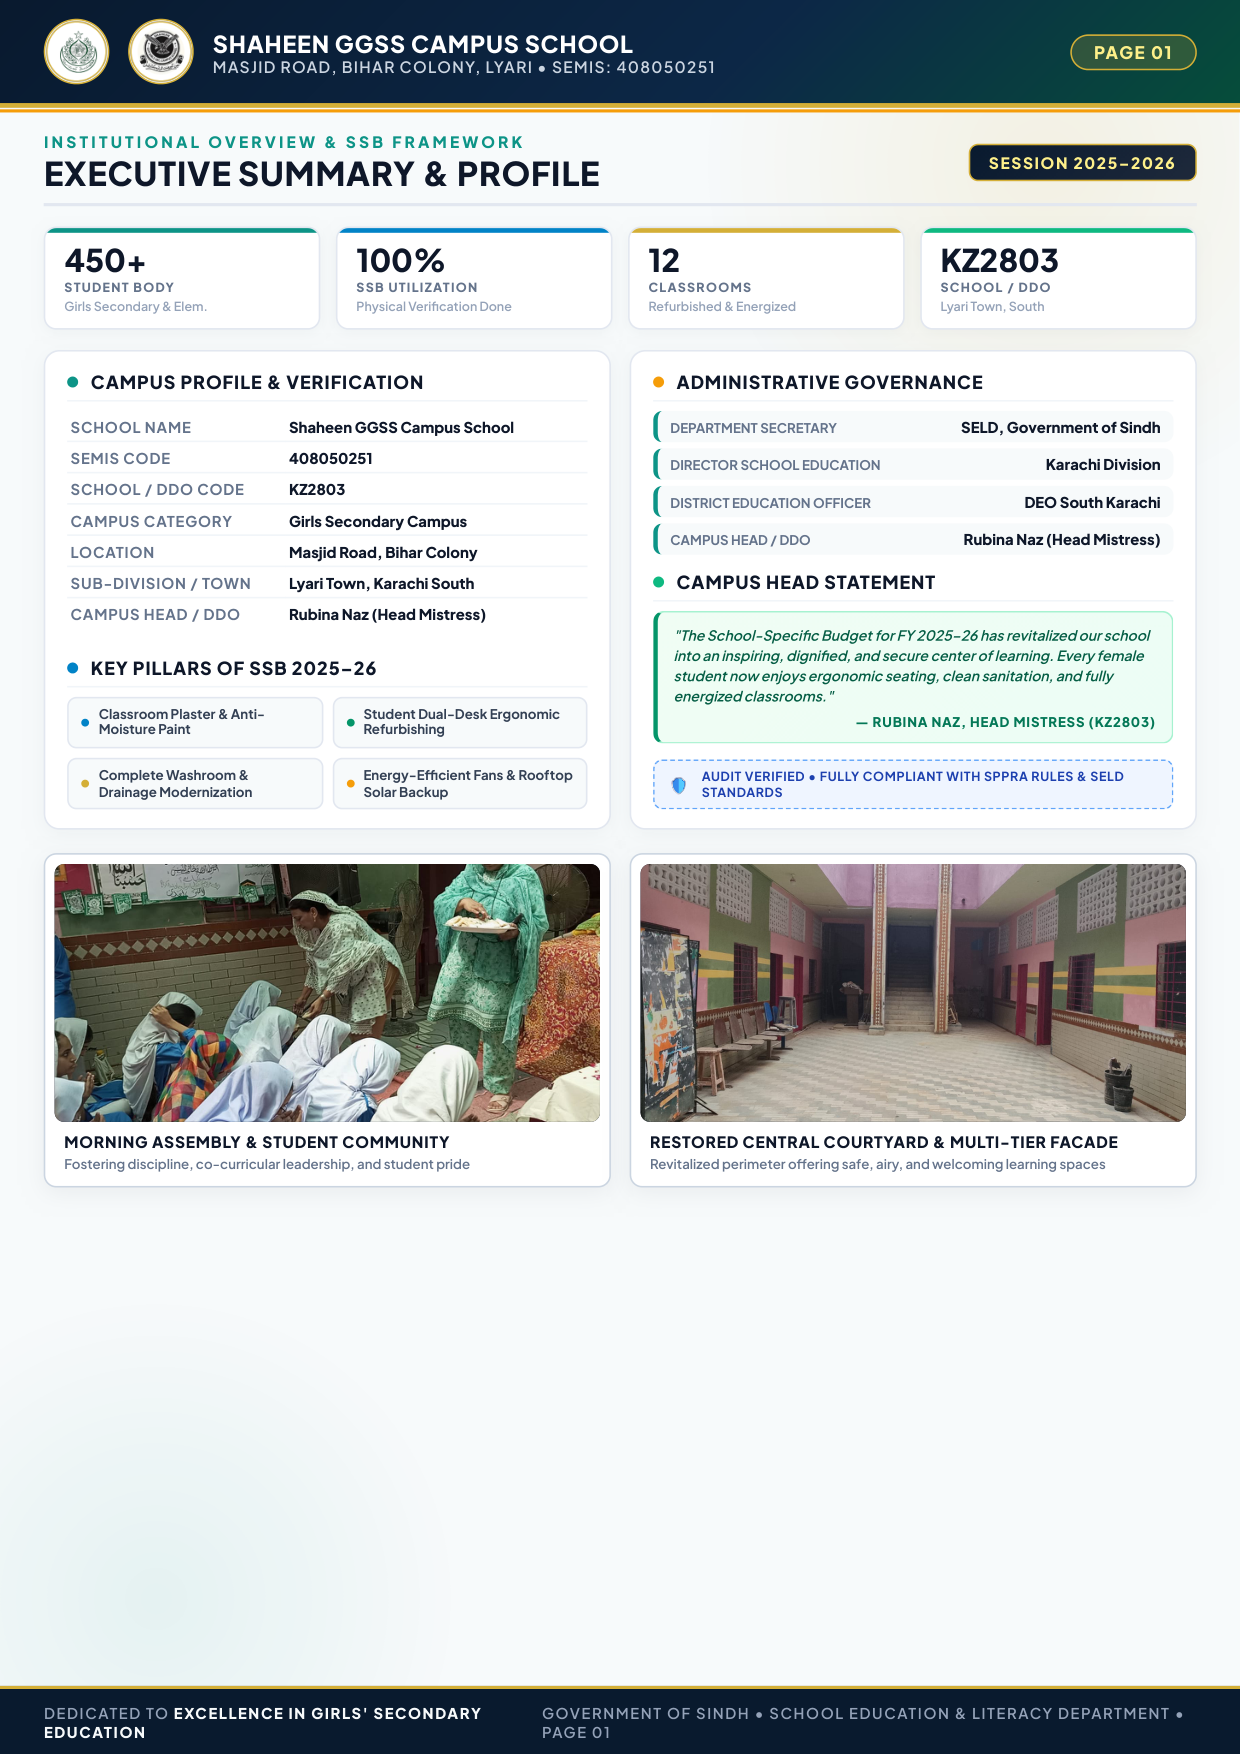
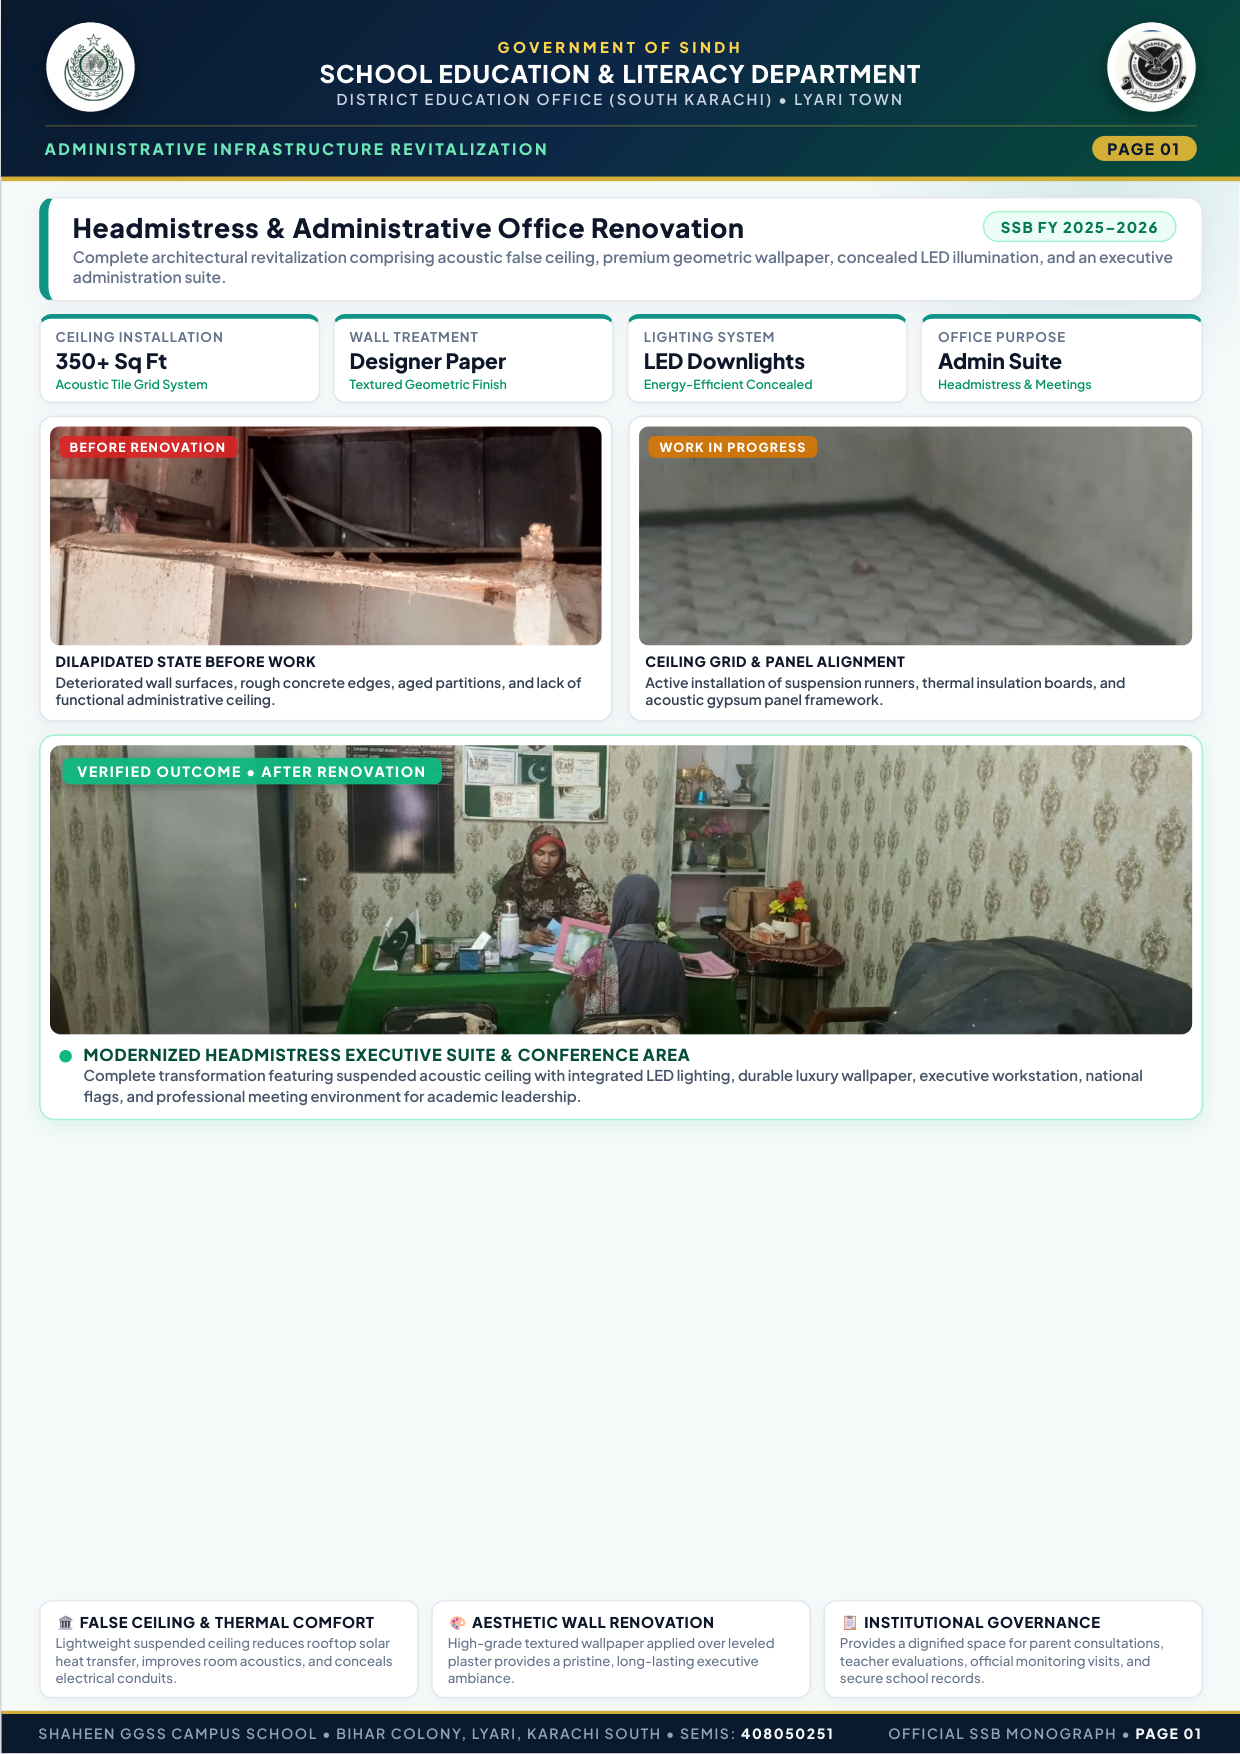
feat(projects-view): sync client projects with latest pages

diff --git a/src/lib/projects-view.ts b/src/lib/projects-view.ts
@@ -33,22 +33,25 @@ const defaultRegistry: Record<string, ClientProject> = {
     title: 'Shaheen GGSS Campus School Bihar Colony — SSB Booklet 2025–2026',
     clientName: 'Shaheen GGSS Campus School (Bihar Colony)',
     category: 'Government School SSB Transformation & Audit Booklet',
-    description: 'Comprehensive 10-page color booklet documenting infrastructure overhaul, classroom renovation, furniture carpentry, electrical/solar installations, and final audit.',
-    totalPages: 10,
+    description: 'Comprehensive 13-page color booklet documenting infrastructure overhaul, classroom renovation, furniture carpentry, electrical/solar installations, and final audit.',
+    totalPages: 13,
     accessKey: 'shaheen2026',
     watermarkText: 'PREVIEW ONLY • THE MASTER SAHIB • CLIENT REVIEW — DO NOT REPRODUCE',
     createdAt: '2026-10-01',
     pages: [
       { pageNumber: 1, title: 'Page 01: Cover Page & Formal Identification', imageSrc: '/projects-view/shaheen_school/pages/page-01.png' },
-      { pageNumber: 2, title: 'Page 02: Introduction, Vision & School Profile', imageSrc: '/projects-view/shaheen_school/pages/page-02.png' },
-      { pageNumber: 3, title: 'Page 03: Entrance Gate & Courtyard Transformation', imageSrc: '/projects-view/shaheen_school/pages/page-03.png' },
-      { pageNumber: 4, title: 'Page 04: Classrooms Plaster, Ceiling & Paint Works', imageSrc: '/projects-view/shaheen_school/pages/page-04.png' },
-      { pageNumber: 5, title: 'Page 05: Student Desks & Dual-Benches Carpentry', imageSrc: '/projects-view/shaheen_school/pages/page-05.png' },
-      { pageNumber: 6, title: 'Page 06: Washrooms & Hygiene Sanitation Overhaul', imageSrc: '/projects-view/shaheen_school/pages/page-06.png' },
-      { pageNumber: 7, title: 'Page 07: Electrical Wiring, Fans & Solar Power Integration', imageSrc: '/projects-view/shaheen_school/pages/page-07.png' },
-      { pageNumber: 8, title: 'Page 08: Academic Corridors & Stationery Stock Audit', imageSrc: '/projects-view/shaheen_school/pages/page-08.png' },
-      { pageNumber: 9, title: 'Page 09: Campus Life, Assembly & Closing Remarks', imageSrc: '/projects-view/shaheen_school/pages/page-09.png' },
-      { pageNumber: 10, title: 'Page 10: Summary, Expenditure & Final Audit Sign-Off', imageSrc: '/projects-view/shaheen_school/pages/page-10.png' },
+      { pageNumber: 2, title: 'Page 02: Headmistress & Administrative Office Renovation', imageSrc: '/projects-view/shaheen_school/pages/page-02.png' },
+      { pageNumber: 3, title: 'Page 03: Executive Summary & Campus Profile', imageSrc: '/projects-view/shaheen_school/pages/page-03.png' },
+      { pageNumber: 4, title: 'Page 04: Main Entrance Gate & Central Courtyard', imageSrc: '/projects-view/shaheen_school/pages/page-04.png' },
+      { pageNumber: 5, title: 'Page 05: Classroom Plastering & Color Coating', imageSrc: '/projects-view/shaheen_school/pages/page-05.png' },
+      { pageNumber: 6, title: 'Page 06: Student Dual Desks & Seating Refurbishment', imageSrc: '/projects-view/shaheen_school/pages/page-06.png' },
+      { pageNumber: 7, title: 'Page 07: Steel Almirahs & Office Storage Cabinets Refurbishment', imageSrc: '/projects-view/shaheen_school/pages/page-07.png' },
+      { pageNumber: 8, title: 'Page 08: Washrooms, Sanitation & Drainage Overhaul', imageSrc: '/projects-view/shaheen_school/pages/page-08.png' },
+      { pageNumber: 9, title: 'Page 09: Classroom Ventilation & Solar System Maintenance', imageSrc: '/projects-view/shaheen_school/pages/page-09.png' },
+      { pageNumber: 10, title: 'Page 10: Cleaning Materials & Sanitation Supplies Inventory', imageSrc: '/projects-view/shaheen_school/pages/page-10.png' },
+      { pageNumber: 11, title: 'Page 11: Corridor Security, Official Attendance Registers & Information Banner', imageSrc: '/projects-view/shaheen_school/pages/page-11.png' },
+      { pageNumber: 12, title: 'Page 12: Campus Life, Student Assemblies & Institutional Governance', imageSrc: '/projects-view/shaheen_school/pages/page-12.png' },
+      { pageNumber: 13, title: 'Page 13: Consolidated SSB Expenditure & Final Audit', imageSrc: '/projects-view/shaheen_school/pages/page-13.png' },
     ],
   },
 };
